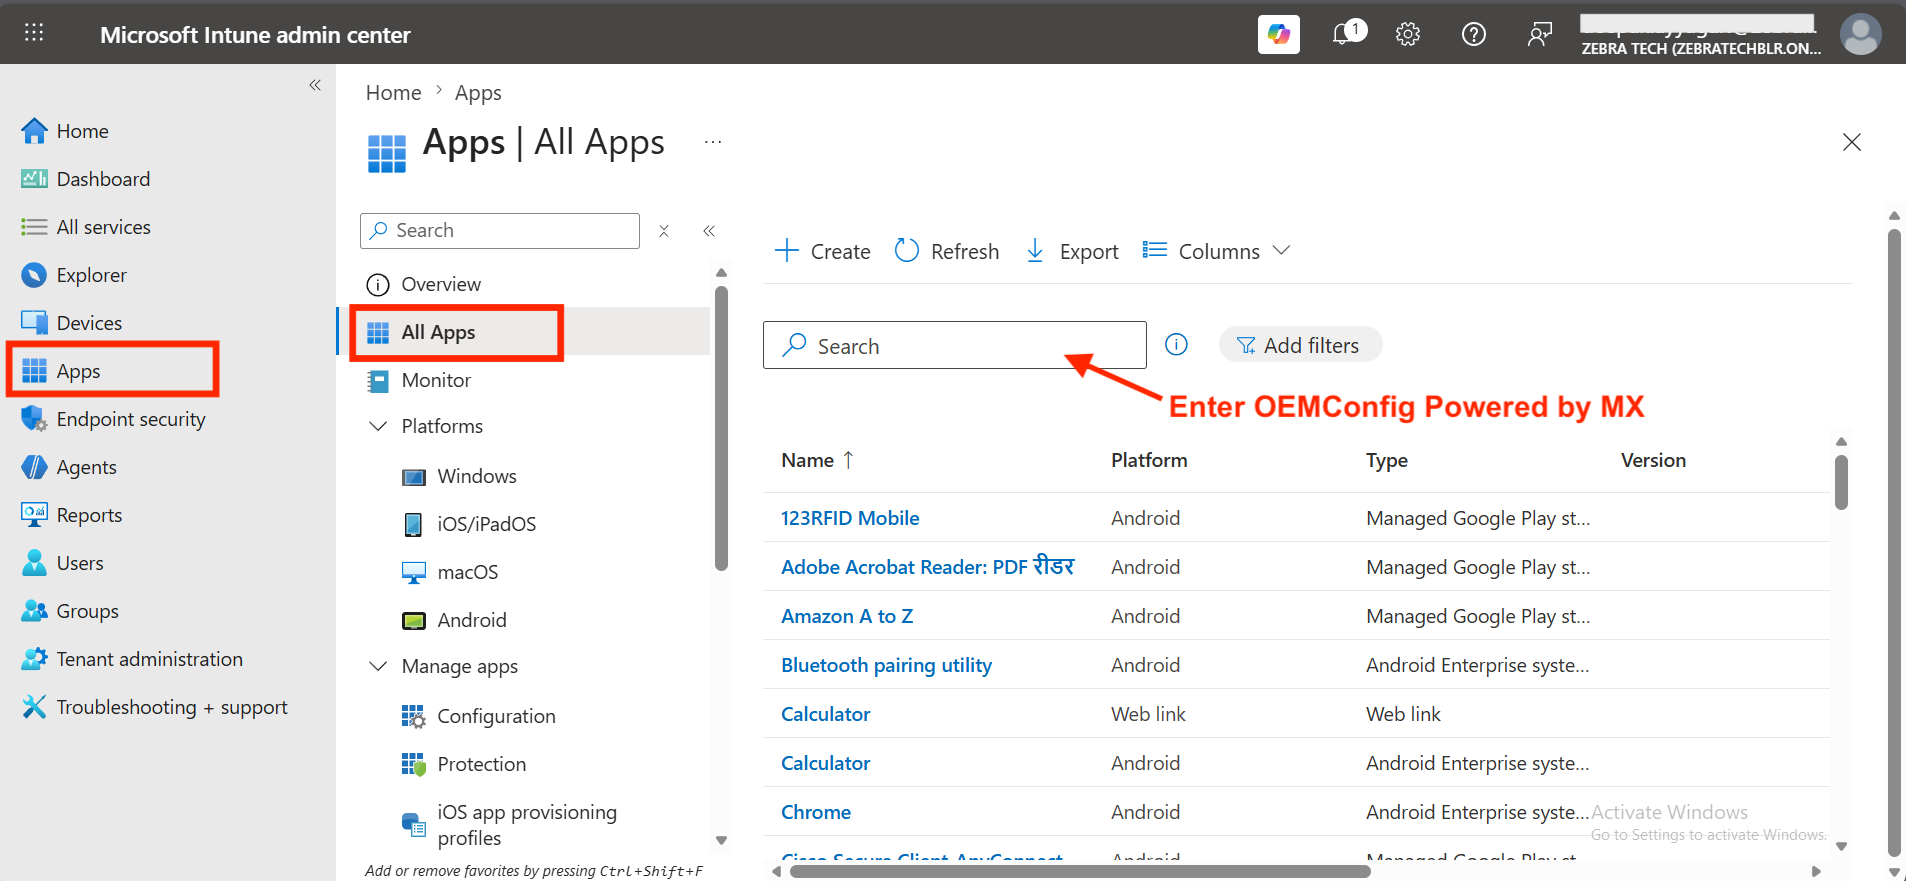
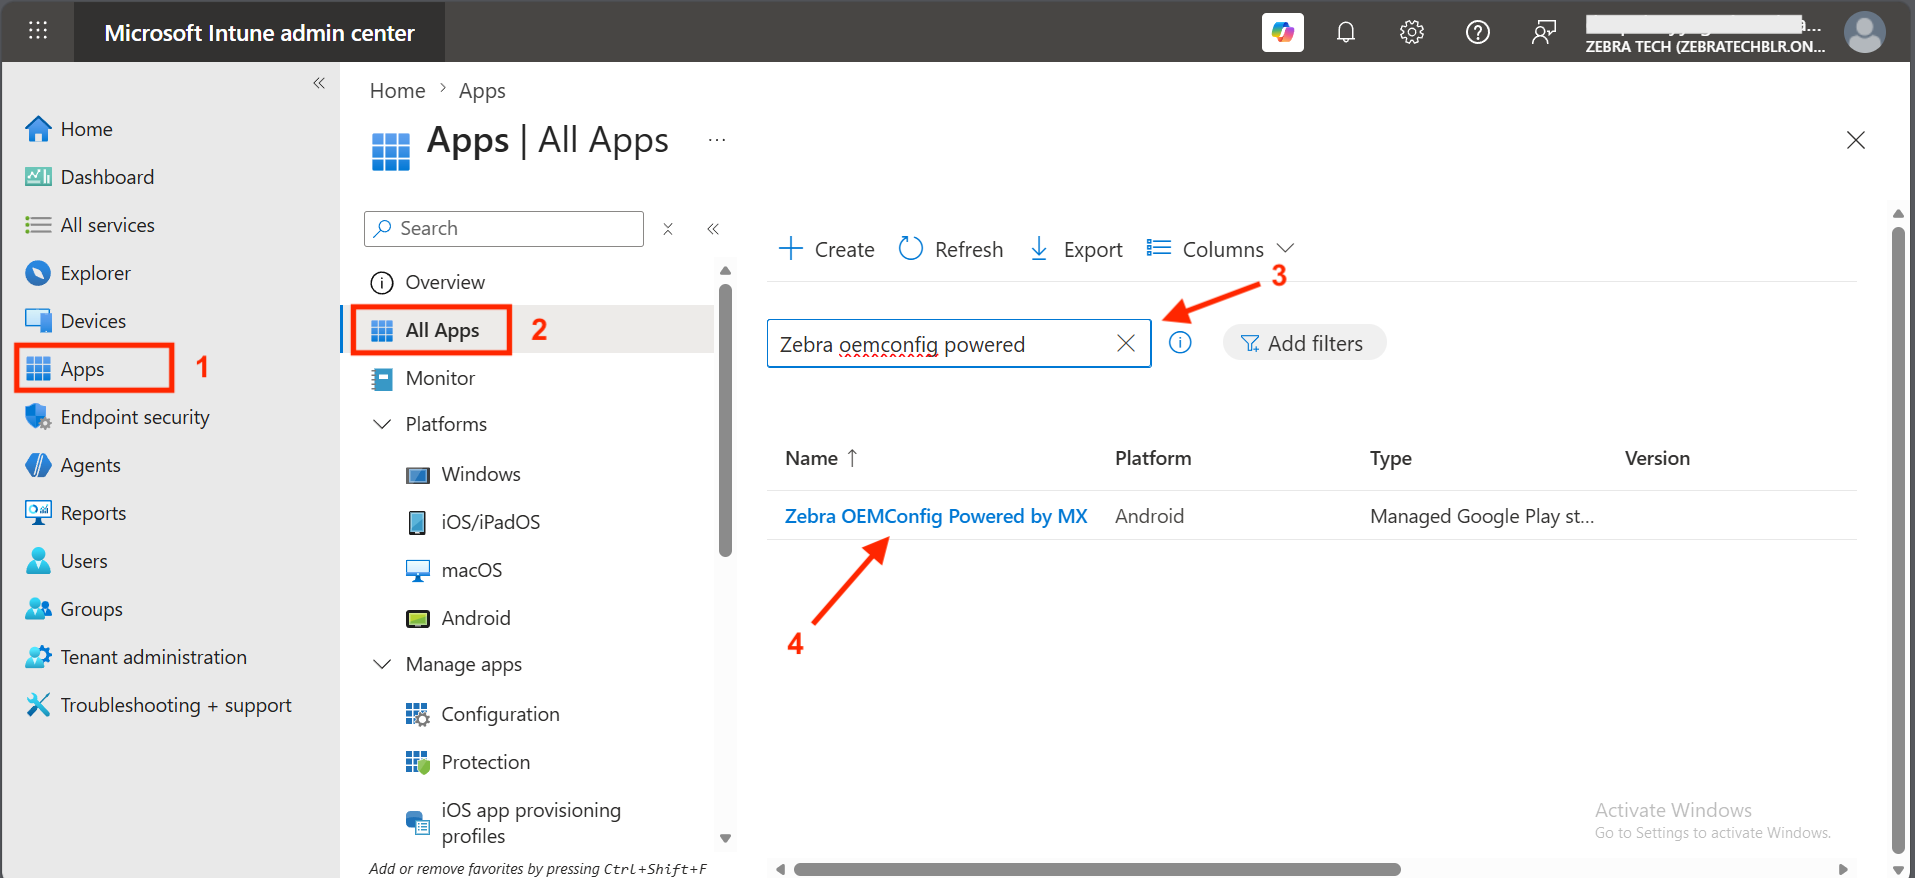
[TUT-127439] Wireless Insights 3.0 - MS Intune

diff --git a/wireless-insights/3-0/guide/agent/index.html b/wireless-insights/3-0/guide/agent/index.html
@@ -707,7 +707,7 @@ The legacy Wireless Insights server is scheduled to be <b>decommissioned on Augu
 <img alt="" style="height:450px" src="msintune-2.png"></li>
 
 <li>Search for <strong>Zebra Wireless Insights</strong> and choose the app. Click <strong>Select.</strong>
-<img alt="" style="height:450px" src="msintune-3.png"></li>
+<img alt="" style="height:400px" src="msintune-3.png"></li>
 
 <li>Zebra Wireless Insights is now available under all apps. Click on the app added.
 <img alt="" style="height:400px" src="msintune-4.png"></li>
@@ -1038,11 +1038,14 @@ The legacy Wireless Insights server is scheduled to be <b>decommissioned on Augu
 <p><strong>I. Create an OEMConfig app in the Intune Console</strong></p>
 
 <ol>
-<li>In the Microsoft Intune web console, navigate to <strong>Apps &gt; All apps,</strong> then search for "Zebra OEMConfig powered by MX."
+<li>In the Microsoft Intune web console, navigate to <strong>Apps &gt; All apps.</strong> Search for <strong>Zebra OEMConfig Powered by MX,</strong> then click on the application to open it.
 <img alt="" style="height:400px" src="msintune-deploy-1.png"></li>
 
-<li>Click <strong>Properties &gt; Add</strong> group (under Assignments), then select the target group. Click <strong>Review and save.</strong>
-<img alt="" style="height:400px" src="msintune-deploy-1.png"></li>
+<li>Click on <strong>Properties.</strong> Under <strong>Assignments,</strong> click on <strong>Edit.</strong>
+<img alt="" style="height:400px" src="msintune-deploy-2.jpg"></li>
+
+<li>Click on <strong>Review + save.</strong>
+<img alt="" style="height:400px" src="msintune-deploy-2a.png"></li>
 </ol>
 
 <p><strong>II. Apply XML via OEM Passthrough</strong></p>
